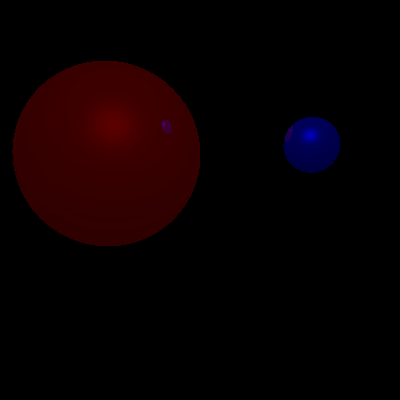
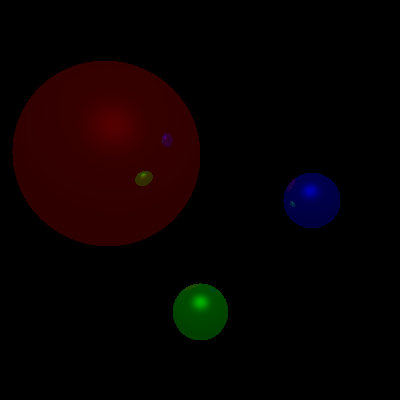
Add a green sphere

diff --git a/raytracer/raytracer_one_light.rb b/raytracer/raytracer_one_light.rb
@@ -21,14 +21,16 @@ class RayTracer
   BACKGROUND = Colour.new(Colour::GREY)
   SHADOW     = Colour.new(Colour::BLACK)
   RED        = Colour.new(Colour::RED)
+  GREEN      = Colour.new(Colour::GREEN)
   BLUE       = Colour.new(Colour::BLUE)
   BRIGHT     = Colour.new(Colour::BRIGHT) 
   # Sphere#initialize(centre, r, colour, reflectivity, material)
   # @ka, @kr, @kd, @ks = material
   # One light at Vec.new([0,300,200])
   @@objects = [
-    Sphere.new([200,100,400], 50, BLUE, [0.5,0.5,0.2,0.8]),
-    Sphere.new([-200,100,600], 200, RED, [0.6,0.7,0.2,0.4]),
+    Sphere.new([200,000,400], 50, BLUE, [0.5,0.5,0.1,0.8]),
+    Sphere.new([0,-200,400], 50, GREEN, [0.5,0.5,0.1,0.8]),
+    Sphere.new([-200,100,600], 200, RED, [0.6,0.7,0.1,0.4]),
   ]
 
   @@pixels = Array.new(W) {
@@ -56,7 +58,7 @@ class RayTracer
     return colour + SHADOW if !(depth < MAX_RAY_DEPTH)
 
     id = [hit.normal.inner_prod(hit.shadow_ray.dir), 0].max
-    is = [(-ray.dir.inner_prod(hit.reflected_ray.dir))**8, 0].max
+    is = [(-ray.dir.inner_prod(hit.reflected_ray.dir))**7, 0].max
 
     colour = colour + hit.colour * hit.obj.ka
     

diff --git a/raytracer/colour.rb b/raytracer/colour.rb
@@ -4,6 +4,7 @@ class Colour
 
   BLACK = [0.0, 0.0, 0.0]
   WHITE = [1.0, 1.0, 1.0]
+  GREEN = [0.0, 1.0, 0.0]
   RED   = [1.0, 0.0, 0.0]
   BLUE  = [0.0, 0.0, 1.0]
   GREY  = [192.0/255.0,192.0/255.0,192.0/255.0]

diff --git a/raytracer/quadratic_equation.rb b/raytracer/quadratic_equation.rb
@@ -6,7 +6,6 @@ module QuadraticEquation
     def self.real_solutions(a,b,d)
       t1 = (-b + Math::sqrt(d))/a
       t2 = (-b - Math::sqrt(d))/a
-
       return t1, t2
     end
 
